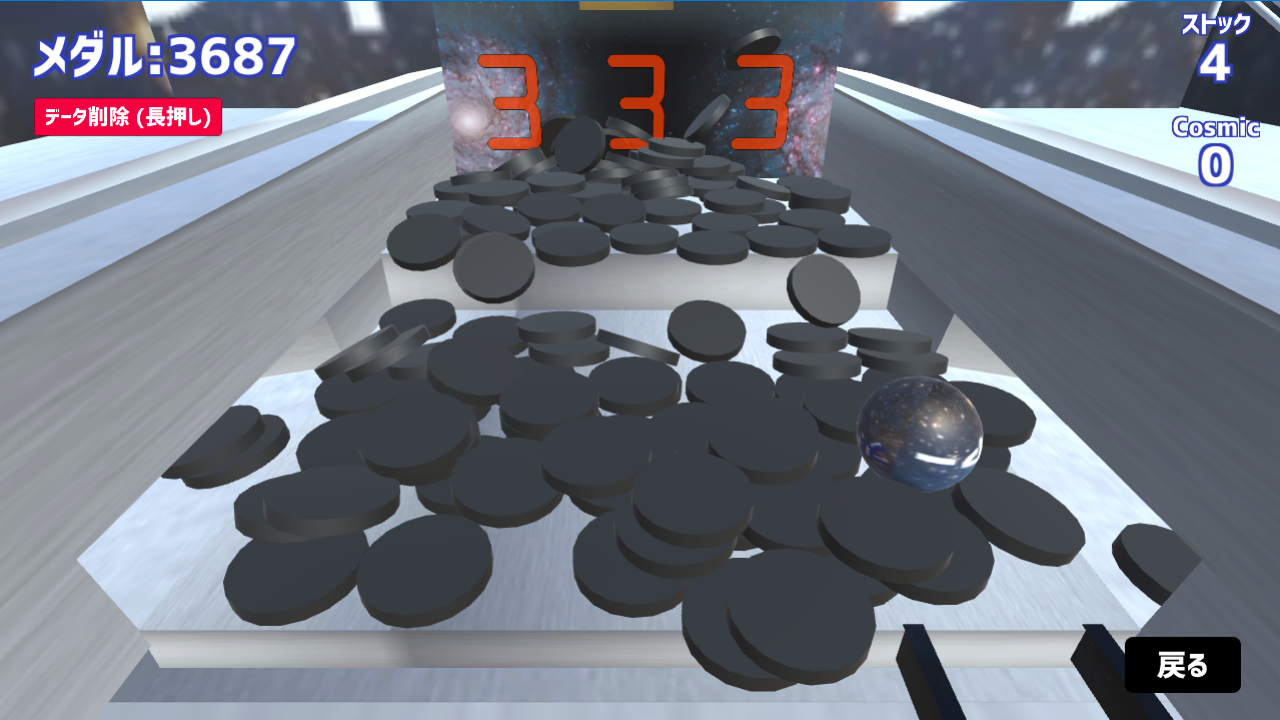
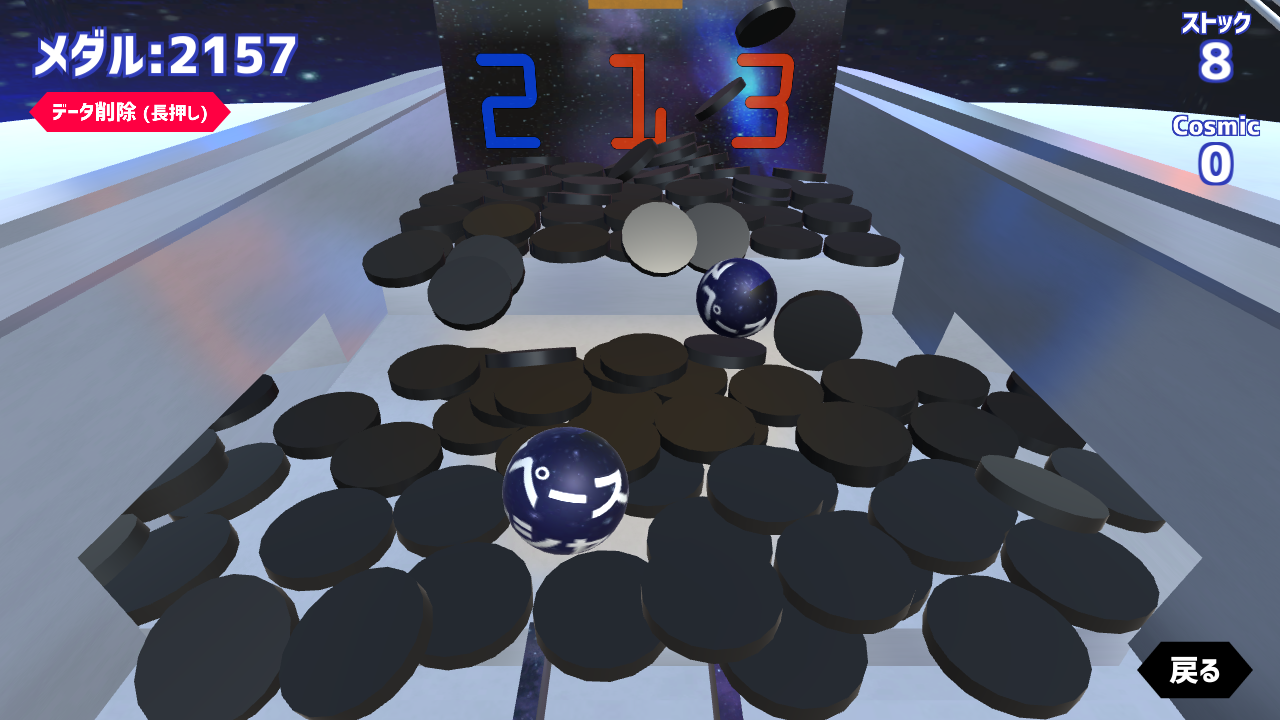
SP 1.1.0

diff --git a/games/spacepusher.html b/games/spacepusher.html
@@ -90,14 +90,22 @@
       <h1 class="mds6" id="download">ダウンロード</h1>
       <div class="container">
         <div class="row justify-content-center my-2">
-          <div class="col-lg-8">
+          <div class="col-lg-8 pb-3">
             <div class="card border-primary">
-              <h5 class="card-header"><i class="bi bi-microsoft px-2"></i>Windows</h5>
+              <h5 class="card-header"><i class="bi bi-microsoft px-2"></i>Windows (64bit)</h5>
               <div class="card-body">
                 <div class="pb-3">
-                  <a href="https://naoyukigamework.booth.pm/items/2110511" class="btn btn-primary py-2 fs-5 col-11"
-                    target="_blank">Ver.1.0.5 BOOTHからダウンロード<i class="bi bi-box-arrow-up-right px-2"></i></a>
+                  <a href="javascript:gamedl('win')" class="btn btn-primary py-2 fs-5 col-11" id="windlbtn">Ver.1.1.0 ダウンロード（圧縮ZIPファイル）<i class="bi bi-download"></i></a>
                 </div>
+                <div class="fs-6">Windows 7｜8｜8.1｜10｜11</div>
+              </div>
+            </div>
+          </div>
+          <div class="col-lg-8 pb-3">
+            <div class="card">
+              <h5 class="card-header">Ver.1.1.0 更新内容 (2025/11/8)</h5>
+              <div class="card-body">
+                ・テクスチャを一新しました<br>・CometJPCにおいて、NoneポケットをJPアップポケットに変更し、JP枚数を可変にしました<br>・CometJPの初期値を1000に変更しました<br>・2025年10月3日発表のUnityの脆弱性に対応しました<br>・スペースキー長押しでのメダル連続投入に対応しました<br>・一部の動作に効果音を追加しました<br>・タイトル画面に「設定」を追加しました<br>・アプリアイコンを変更しました<br>・一部UIを調整しました<br>・対応CPUアーキテクチャを64bitのみにしました
               </div>
             </div>
           </div>
@@ -158,7 +166,7 @@
               ・ぱすと<br>
               《音楽・効果音》<br>
               ・ISAo<br>
-              ・MusMus<br>・FLASH☆BEAT<br>・まんぼう二等兵<br>・かずち<br>・効果音ラボ<br>・小森　平<br>・効果音辞典<br>・On-Jin ～音人～</div>
+              ・MusMus<br>・FLASH☆BEAT<br>・まんぼう二等兵<br>・かずち<br>・効果音ラボ<br>・小森　平<br>・効果音辞典<br>・On-Jin ～音人～<br>・OtoLogic</div>
           </div>
         </div>
       </div>
@@ -226,6 +234,30 @@
   <script src="/naoyukigamework/js/header.js"></script>
   <script src="/naoyukigamework/js/footer.js"></script>
   <!-- CommonComponentEnd -->
+  <script>
+    function gamedl(pf) {
+      const windlbtn = document.getElementById("windlbtn");
+      // const androiddlbtn = document.getElementById("androiddlbtn");
+      windlbtn.classList.add("disabled");
+      // androiddlbtn.classList.add("disabled");
+      let windlbtntext = "Ver.X.Y.Z ダウンロード（XXXファイル）";
+      // let androiddlbtntext = "Ver.X.Y.Z ダウンロード（XXXファイル）";
+      windlbtntext = windlbtn.innerHTML;
+      // androiddlbtntext = androiddlbtn.innerText;
+      windlbtn.innerText = "お待ちください...";
+      // androiddlbtn.innerText = "お待ちください...";
+      const dlurl = fetch(`https://script.google.com/macros/s/AKfycbzwKdFUI5NKu434d0R3y2F1oncTO_f-_S0Z7RFsrDC_F-0eWMPtp4kFl1ejUhLrGv3j/exec?game=sp&pf=${pf}`)
+        .then(res => res.text())
+        .then(text => {
+          location.href = text;
+          //window.open(text, "_blank", "noreferrer");
+          windlbtn.classList.remove("disabled");
+          // androiddlbtn.classList.remove("disabled");
+          windlbtn.innerHTML = windlbtntext;
+          // androiddlbtn.innerText = androiddlbtntext;
+        })
+    }
+  </script>
 </body>
 
 </html>

diff --git a/games/updates/spacepusher.html b/games/updates/spacepusher.html
@@ -73,6 +73,17 @@
       <div class="row justify-content-center my-2">
         <div class="col-lg-10">
           <div class="card shadow-sm">
+            <h5 class="card-header">Ver.1.1.0 更新内容 (2025/11/8)</h5>
+            <div class="card-body">
+              <p class="card-text">・テクスチャを一新しました<br>・CometJPCにおいて、NoneポケットをJPアップポケットに変更し、JP枚数を可変にしました<br>・CometJPの初期値を1000に変更しました<br>・2025年10月3日発表のUnityの脆弱性に対応しました<br>・スペースキー長押しでのメダル連続投入に対応しました<br>・一部の動作に効果音を追加しました<br>・タイトル画面に「設定」を追加しました<br>・アプリアイコンを変更しました<br>・一部UIを調整しました<br>・対応CPUアーキテクチャを64bitのみにしました
+              </p>
+            </div>
+          </div>
+        </div>
+      </div>
+      <div class="row justify-content-center my-2">
+        <div class="col-lg-10">
+          <div class="card shadow-sm">
             <h5 class="card-header">Ver.1.0.5 更新内容</h5>
             <div class="card-body">
               <p class="card-text">・CometJPCの配当決定仕様を以下のように変更しました。<br>JP1回でJP、OUT5回でOUT
